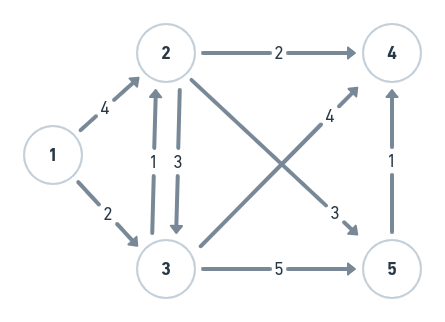
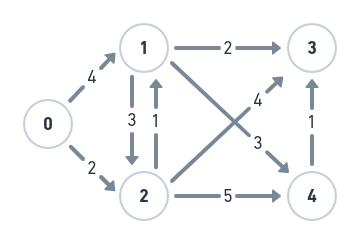
Atualização dos READMEs

diff --git a/Percurso em Grafos/Problemas/Caminho Minimo/floyd_wharshall.py b/Percurso em Grafos/Problemas/Caminho Minimo/floyd_wharshall.py
@@ -24,4 +24,3 @@ if __name__ == "__main__":
 				   [inf, -1,inf, 0 ]])
 
 	print_m(floyd_wharshall(graph))
-	print(graph)

diff --git a/Percurso em Grafos/Problemas/Caminho Minimo/README.md b/Percurso em Grafos/Problemas/Caminho Minimo/README.md
@@ -29,11 +29,72 @@ Para solucionar o problema de caminho mínimo em um grafo podemos utilizar algun
 
 O algortimo de Dijkstra pode ser usado para encontrar o menor caminho caminho entre um vértice e todos os outros de um determinado grafo. Embora seja um algoritmo simples de implementar e que funcione de forma eficiente, o algoritmo de Dijkstra possui a limitação de que todas as arestas devem ter pesos positivos.
 
-A ideia do algoritmo consiste em, para cada vétice visitado, buscar todos os vétices vizinhos, que ainda não foram visitados, e verificar quais os custos para se chegar em cada um deles, anotando tudo em uma lista de distâncias. 
+A ideia do algoritmo consiste em, para cada vétice visitado, buscar todos os vétices vizinhos, que ainda não foram visitados, e verificar quais os custos para se chegar em cada um deles, sempre guardando o menor valor encontrado uma lista de distâncias. 
 
 Feito isso verificamos qual desses vértices vizinhos possui o menor custo e caminhamos para ele. É importante ter em mente que o custo para o próximo vétice é sempre a soma do custo para chegar no vertice anterior somado ao custo do caminho entre eles, pois como a análise está sendo feita em relação ao primeiro vétice, quando caminhamos devemos considerar todo o percurso.
 
 Quando todos os vétices tiverem sido visitados teremos em nossa lista de distâncias o menor caminho para cada um dos vértices.
+
+
+
+**Exemplo:** Considere o grafo abaixo com as arestas indicadas. Começaremos a visitação pelo vértice (0).
+
+![Imagem do Grafo](https://github.com/LucasSargeir/Algoritmos-em-Grafos/blob/master/images/exemplo10.png)
+
+Atualizamos o custo na tabela de caminhos mínimos, como estamos no vértice inicial o custo é 0.
+
+| Vértices |  0   |  1   |  2   |  3   |  4   |
+| :------- | :--: | :--: | :--: | :--: | :--: |
+| **C.M.** |  0   |  ∞   |  ∞   |  ∞   |  ∞   |
+
+Agora devemos verificar o custo para cada um de seus vétices adjacentes que não tenham sido visitados ainda, e caso esse custo seja menor do que o já existente na tabela, atualizamos.
+
+Para os vizinhos não visitados de (0) temos o vétice (1) com custo 4 e o vértice (2) com custo 2. Como ambos os custos são menores que infinito, atualizamos a tabela.
+| Vértices | [0]  |  1   |  2   |  3   |  4   |
+| :------- | :--: | :--: | :--: | :--: | :--: |
+| **C.M.** |  0   |  4   |  2   |  ∞   |  ∞   |
+
+Além de atualizar os custos, devemos observar qual dos vértices tem o menor custo. Ele será o proximo a ser visitado. Neste caso, visitaremos o vétice (2).
+
+![Imagem do Grafo](https://github.com/LucasSargeir/Algoritmos-em-Grafos/blob/master/images/exemplo11.png)
+
+Seguindo o mesmo passo realizado anteriormente, verificamos os vizinhos não visitados de 2, atualizando a tabela.
+
+Para os vizinhos não visitados de (2) temos o vértice (1) com custo 1, o vértice (4) com custo 5 e o vértice (3) com custo 4. Como todos os custos são menores do que os custos já encontrados atualizamos a tabela. 
+
+| Vértices |  0   |      1      | [2]  |     3      |      4      |
+| :------- | :--: | :---------: | :--: | :--------: | :---------: |
+| **C.M.** |  0   | (2 + 1) = 3 |  2   | (2 + 4) =6 | (2 + 5) = 7 |
+
+> **Obs:** Note que nessa iteração estamos caminhando do vértice (2), mas as distâncias são procuradas em relação ao vértice (0), neste caso devemos somar o custo para cada vértice com o custo para chegar até o vértice (2).
+
+Nesta iteração o vétice de menor custo é o (1), logo, caminharemos para ele. A verificação de menor custo deve ser feita em relação a aresta entre os vétices atual e seus vizinhos, não devem ser considerados os valores da tabela. 
+
+Agora, visitaremos o vétice (1).
+
+![Imagem do Grafo](https://github.com/LucasSargeir/Algoritmos-em-Grafos/blob/master/images/exemplo12.png)
+
+Seguindo a iteração, devemos pegar os vizinhos não visitados do vértice (1). Para este vértice temos os vizinhos (3) com custo 2 e (4) com custo 3. Como todos os custos são menores do que os custos já encontrados atualizamos a tabela. 
+
+| Vértices |  0   |  1   |  2   |    3    |    4    |
+| :------- | :--: | :--: | :--: | :-----: | :-----: |
+| **C.M.** |  0   |  3   |  2   | (3 + 2) | (3 + 3) |
+
+Como o (3) é o vértice de menor custo, caminharemos para ele. Porém como esse vértice não possui vizinhos não visitados pulamos essa iteração e pegamos o próximo vértice não visitado, que neste caso é o (4).
+
+Como o quatro não possui vértices não visitados, e não existem mais vértices não visitados, terminamos o algoritmo.
+
+Ao final temos a tabela com menor custo de 0 para todos os vértices como a indicada abaixo:
+
+| Vértices |  0   |  1   |  2   |  3   |  4   |
+| :------- | :--: | :--: | :--: | :--: | :--: |
+| **C.M.** |  0   |  3   |  2   |  5   |  6   |
+
+Podemos também montar um novo vértice seguindo os menores trajetos, veja:
+
+![Imagem do Grafo](https://github.com/LucasSargeir/Algoritmos-em-Grafos/blob/master/images/exemplo13.png)
+
+
 
 ## Bellman-Ford
 
